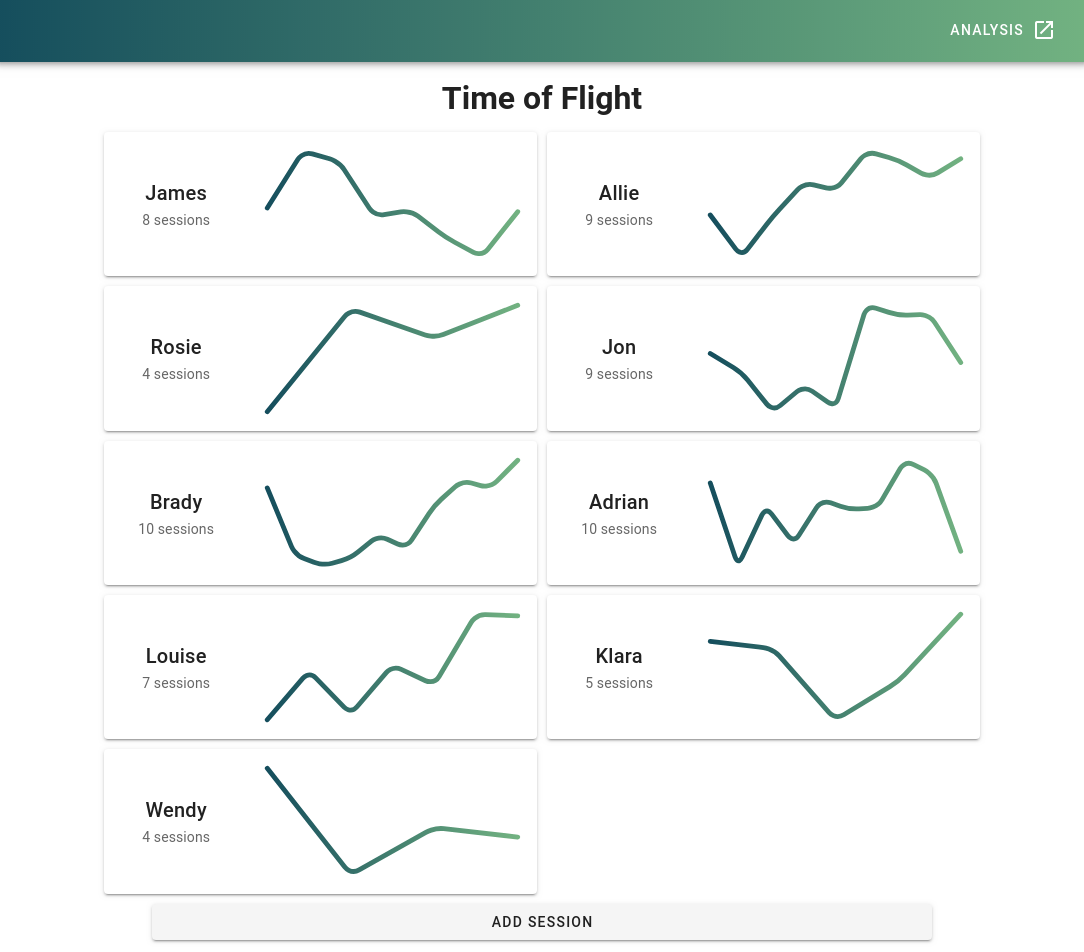
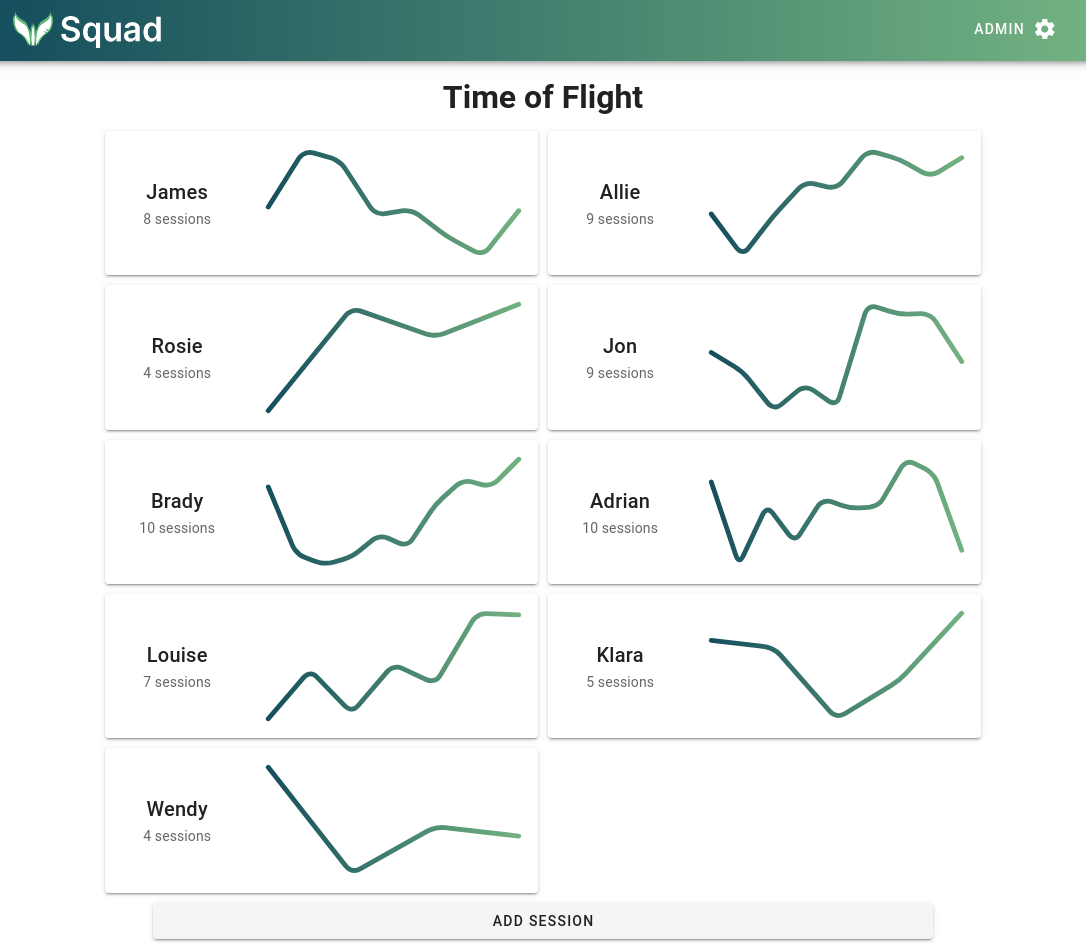
Updated readme

diff --git a/README.md b/README.md
@@ -1,4 +1,6 @@
-# squad-view
+# Squad View
+
+![Logo](/src/assets/logo.png)
 
 ## What is it?
 
@@ -6,8 +8,14 @@ This is a small app to track some stats for members of my trampoline club, displ
 
 It's also a project for me to practise using the Vue framework.
 
+The app is still under development, so things will be broken for now. Feel free to look around in the meantime, and if you have any suggestions, please open an issue, or contact me through my GitHub account.
+
 ## Main View
 ![Time of flight view](/rmi/tof.png)
+
+You can add new session data which will update the above graph lines.
+
+![Adding new entries](/rmi/form.png)
 
 ## Project setup
 ```
